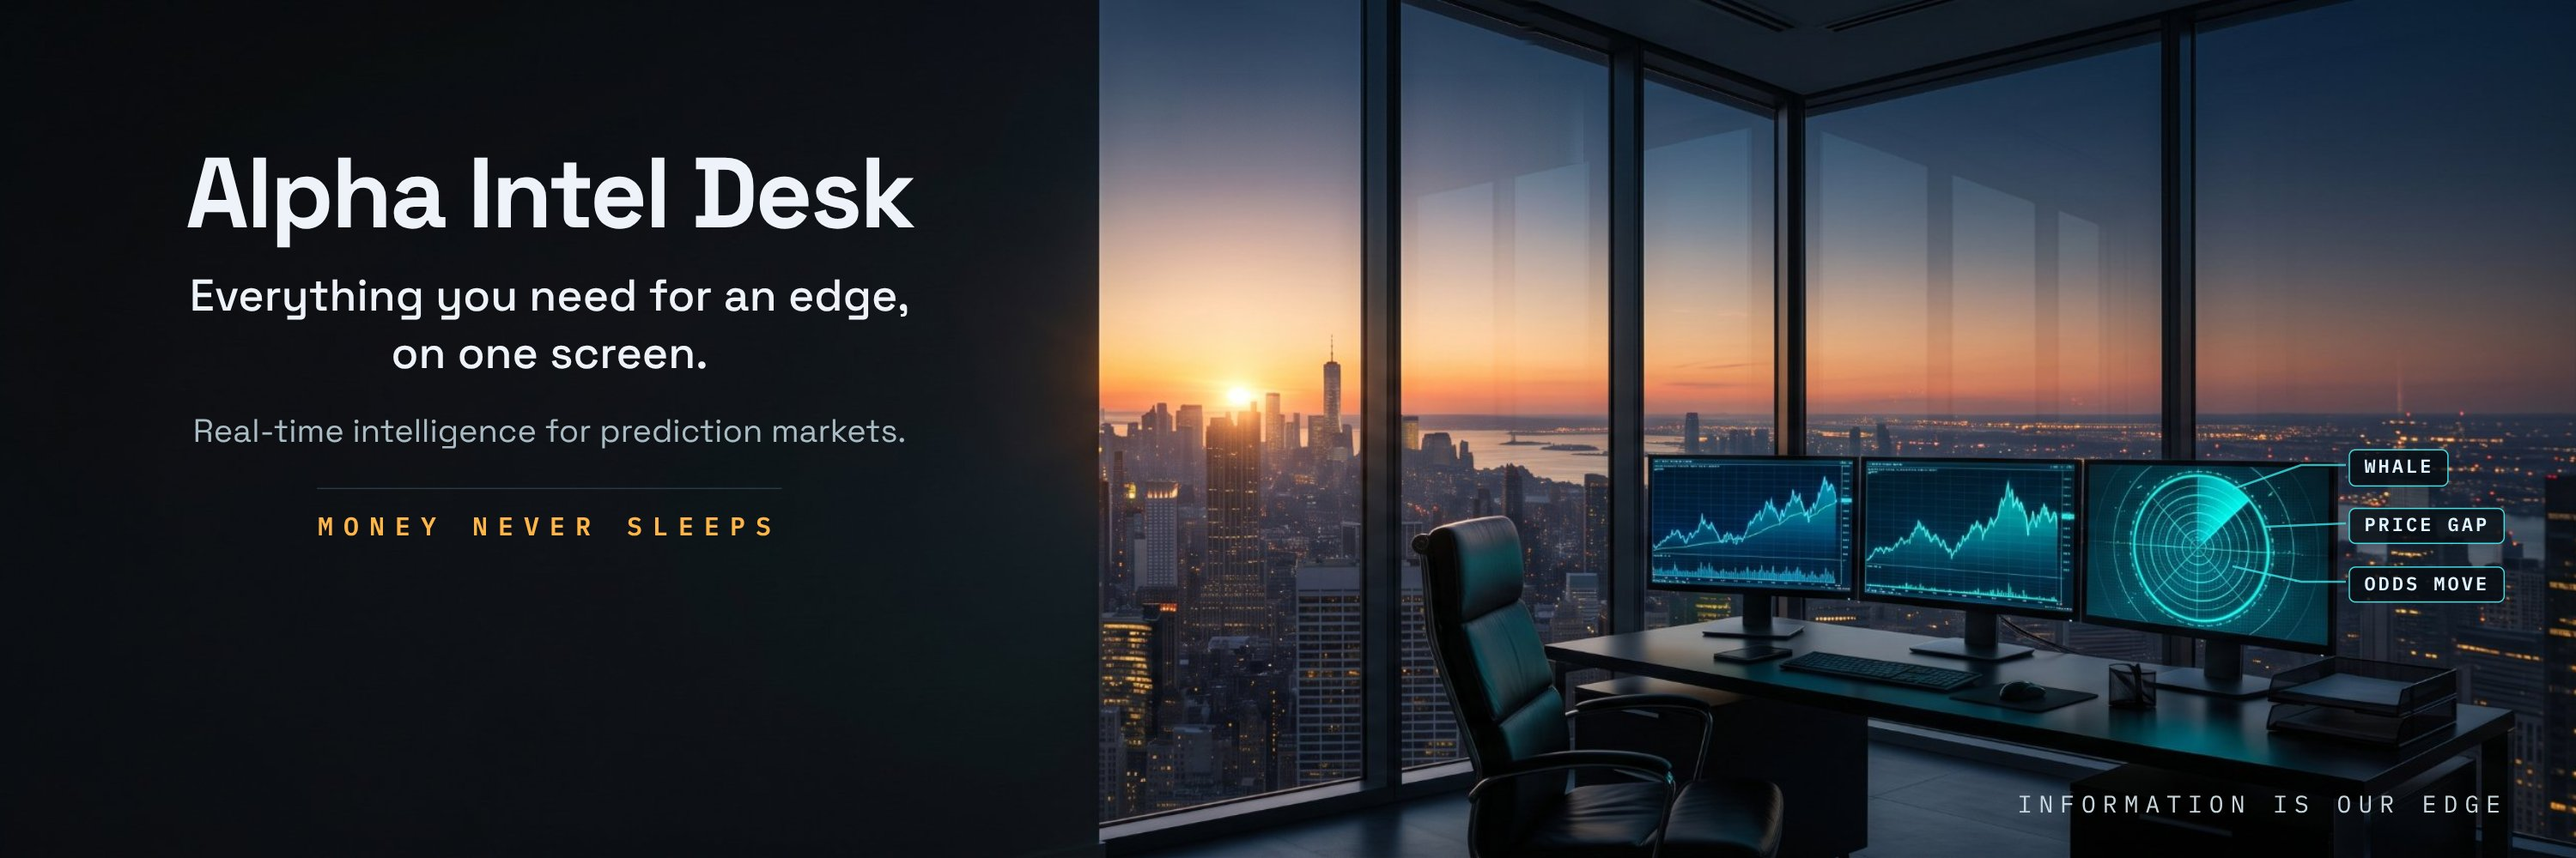
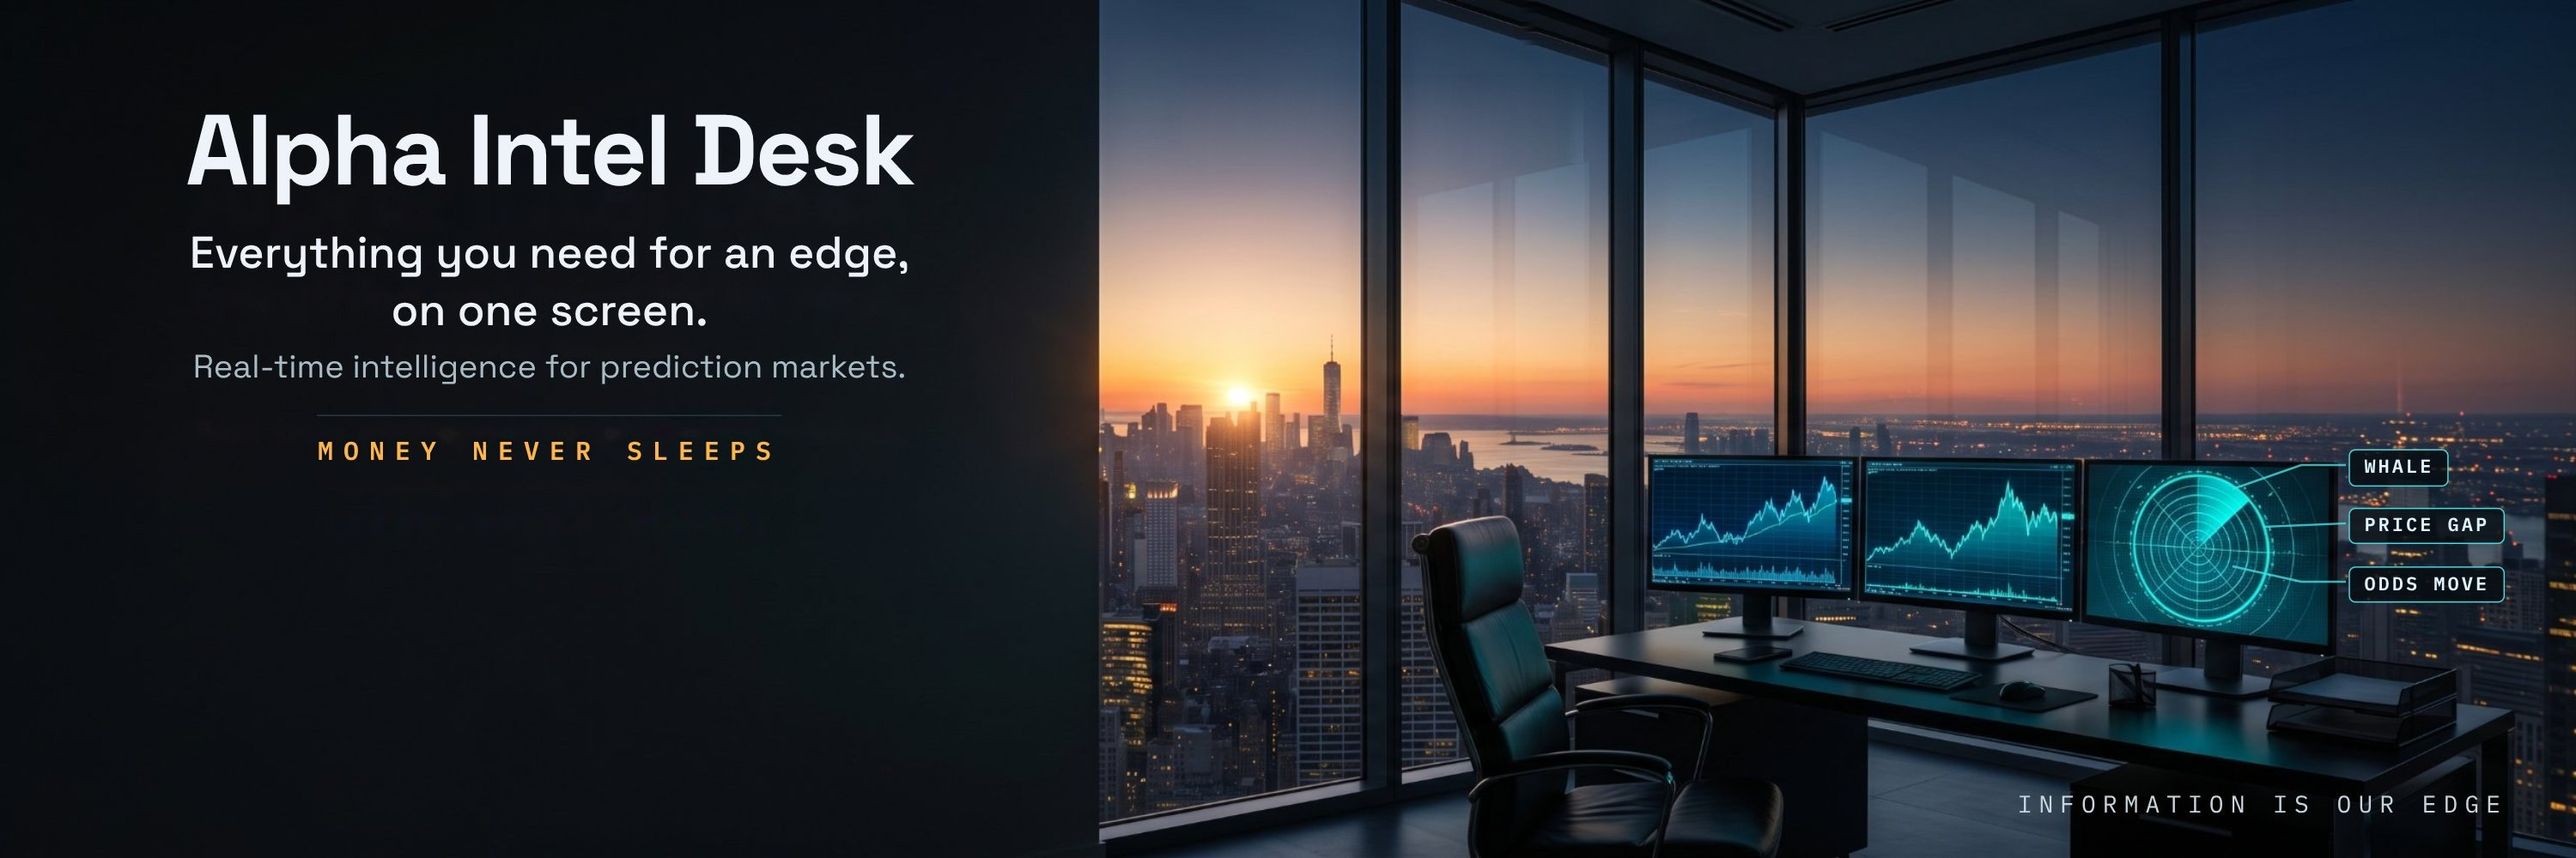
Add files via upload

Changed region(s): [[0.062, 0.124, 0.372, 0.465], [0.062, 0.496, 0.341, 0.558], [0.124, 0.589, 0.31, 0.62]]

diff --git a/make_desk.py b/make_desk.py
@@ -2,7 +2,7 @@
 # Markets (delayed quotes), oil, DXY, 10-year, VIX, crypto, Google Trends (US + UK)
 # and Conflict Radar (world conflict headlines from Google News, tagged by region).
 # Public data only. Runs every hour from the Update markets workflow.
-import json, urllib.request
+import json, re, urllib.request
 import xml.etree.ElementTree as ET
 from datetime import datetime, timezone
 
@@ -57,17 +57,19 @@ CONFLICT_WORDS = ("war", "military", "troops", "missile", "strike", "drone", "ce
                   "hostage", "nuclear", "border", "offensive", "bomb", "killed", "forces", "drill", "naval",
                   "warship", "tension", "blockade", "escalat", "retaliat", "occupation")
 NOT_CONFLICT = ("nfl", "nba", "mlb", "nhl", "game", "season", "coach", "box office", "movie", "trailer",
-                "video game", "star wars", "price war", "culture war", "bidding war", "recipe", "stock")
+                "video game", "star wars", "price war", "culture war", "bidding war", "recipe", "stock",
+                "holy war", "rivalry", "podcast", "lifestyle", "fashion", "album", "byu", "playoff", "tournament")
 REGIONS = [  # first match wins
     ("MDE", "israel gaza hamas hezbollah lebanon iran iraq syria yemen houthi saudi qatar jordan red sea "
-            "west bank tehran tel aviv"),
+            "west bank tehran tel aviv iranian israeli palestinian lebanese syrian yemeni iraqi saudi"),
     ("EUR", "ukraine russia kremlin kyiv moscow putin zelensky nato poland belarus moldova serbia kosovo "
-            "baltic europe eu "),
+            "baltic europe eu ukrainian russian polish belarusian serbian european"),
     ("ASIA", "china taiwan beijing korea pyongyang japan india pakistan kashmir afghanistan myanmar "
-             "philippines south china sea thailand cambodia"),
-    ("AFR", "sudan congo somalia ethiopia nigeria sahel mali niger libya burkina kenya chad"),
+             "philippines south china sea thailand cambodia chinese taiwanese korean japanese indian pakistani afghan"),
+    ("AFR", "sudan congo somalia ethiopia nigeria sahel mali niger libya burkina kenya chad sudanese somali "
+            "ethiopian nigerian congolese libyan"),
     ("AMER", "venezuela cuba mexico cartel haiti colombia ecuador brazil panama canada pentagon "
-             "united states u.s. us "),
+             "venezuelan cuban mexican haitian colombian united states u.s. us "),
 ]
 
 
@@ -75,7 +77,7 @@ def conflict(n=12):
     url = ("https://news.google.com/rss/search?q=" + urllib.request.quote(CONFLICT_Q) +
            "&hl=en-US&gl=US&ceid=US:en")
     root = ET.fromstring(get(url, raw=True))
-    out, seen = [], set()
+    out, seen = [], []
     for i in root.iter("item"):
         full = (i.findtext("title") or "").strip()
         title, _, source = full.rpartition(" - ")
@@ -83,11 +85,11 @@ def conflict(n=12):
         low = " " + title.lower() + " "
         if not any(w in low for w in CONFLICT_WORDS) or any(w in low for w in NOT_CONFLICT):
             continue
-        key = " ".join(low.split()[:6])
-        if key in seen:
+        ws = set(re.findall(r"[a-z]{4,}", low))          # same story, different headline? skip it
+        if any(len(ws & k) >= 0.5 * min(len(ws), len(k)) for k in seen):
             continue
-        seen.add(key)
-        region = next((r for r, words in REGIONS if any(" " + w.strip() + " " in low or w.strip() in low.split()
+        seen.append(ws)
+        region = next((r for r, words in REGIONS if any(re.search(r"\b" + re.escape(w) + r"(?:\b|['\u2019]s)", low)
                                                          for w in words.split())), "WORLD")
         out.append({"region": region, "title": title, "source": source.strip(),
                     "url": (i.findtext("link") or "").strip(), "time": (i.findtext("pubDate") or "").strip()})
